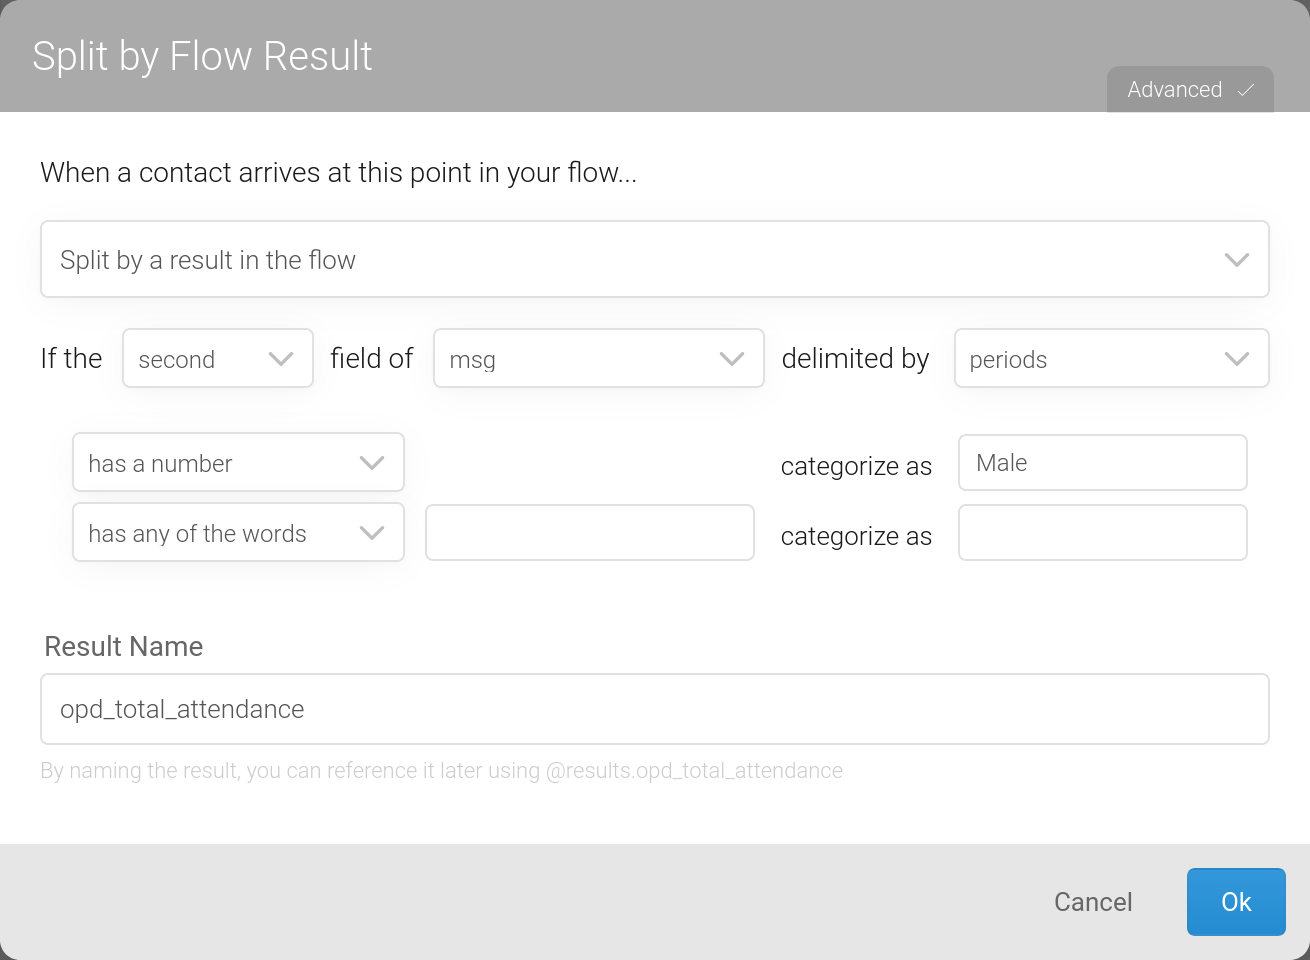
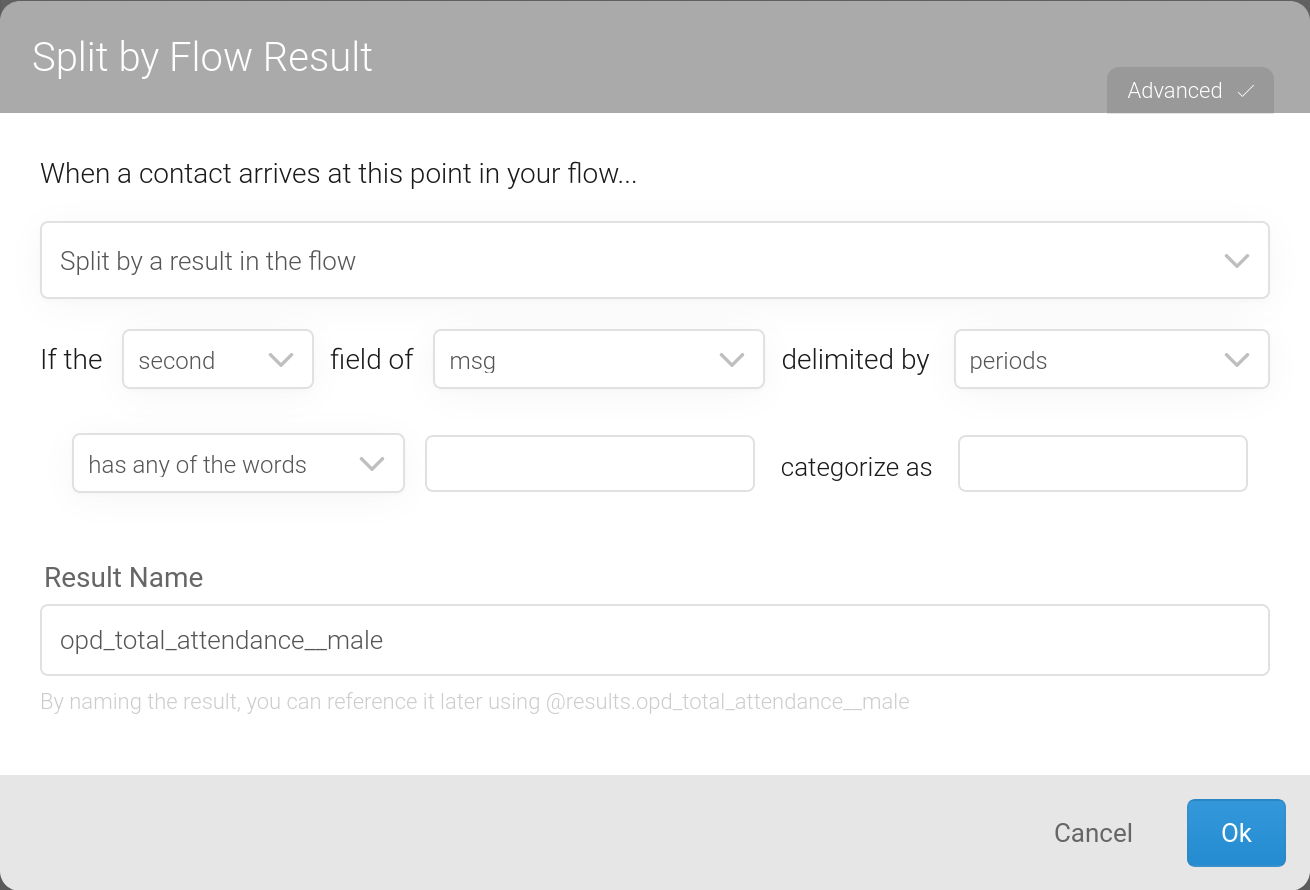
fix(INTEROP-28): expect the category option combo to be appended to t… (#76)
* fix(INTEROP-28): expect the category option combo to be appended to the result name instead of in the category field since RapidPro doesn't allow more than one result with the same name

* style(INTEROP-28): remove commented code

* refactor: fix log message

* fix(INTEROP-28): attempt to read friendly result name before falling back to result key (applicable to polling)

diff --git a/src/test/java/org/hisp/dhis/integration/rapidpro/DataValueSetDataSonnetTestCase.java b/src/test/java/org/hisp/dhis/integration/rapidpro/DataValueSetDataSonnetTestCase.java
@@ -81,12 +81,12 @@ public class DataValueSetDataSonnetTestCase
         dsExpression.setOutputMediaType( "application/x-java-object" );
 
         List<String> dataElementCodes = List.of( "GEN_EXT_FUND", "MAL-POP-TOTAL", "MAL_LLIN_DISTR_PW",
-            "GEN_DOMESTIC FUND", "MAL_LLIN_DISTR_NB", "MAL_PEOPLE_PROT_BY_IRS", "MAL_POP_AT_RISK", "GEN_PREG_EXPECT",
+            "GEN_DOMESTIC FUND", "MAL_LLIN_DISTR_NB", "MAL-PEOPLE-PROT-BY-IRS", "MAL_POP_AT_RISK", "GEN_PREG_EXPECT",
             "GEN_FUND_NEED" );
 
         logCountDownLatch = new CountDownLatch( 1 );
         CamelContext camelContext = new DefaultCamelContext();
-        camelContext.getRegistry().bind( "native", new Library()
+        camelContext.getRegistry().bind( "native", new NativeDataSonnetLibrary()
         {
             @Override
             public String namespace()
@@ -97,22 +97,35 @@ public class DataValueSetDataSonnetTestCase
             @Override
             public Map<String, Val.Func> functions( DataFormatService dataFormats, Header header )
             {
-                Map<String, Val.Func> answer = new HashMap<>();
+                Map<String, Val.Func> answer = super.functions( dataFormats, header );
+                answer.put( "getCatOptComboCode", makeSimpleFunc(
+                    Collections.singletonList( "resultName" ), vals -> {
+                        String resultName = ((Val.Str) vals.get( 0 )).value();
+                        return Materializer.reverse( dataFormats.mandatoryRead(
+                            new DefaultDocument( resultName.substring( resultName.indexOf( "__" ) + 2 ).toUpperCase(),
+                                MediaTypes.APPLICATION_JAVA ) ) );
+                    } ) );
                 answer.put( "logWarning", makeSimpleFunc(
-                    Collections.singletonList( "key" ), vals -> {
+                    Collections.singletonList( "msg" ), vals -> {
                         logCountDownLatch.countDown();
                         return null;
                     } ) );
-                answer.put( "isCategoryOptionCombo", makeSimpleFunc(
-                    Collections.singletonList( "key" ), vals -> {
-                        if ( ((Val.Str) vals.get( 0 )).value().equals( "Male" ))
+                answer.put( "isCatOptCombo", makeSimpleFunc(
+                    Collections.singletonList( "resultName" ), vals -> {
+                        String resultName = ((Val.Str) vals.get( 0 )).value();
+                        if ( resultName.contains( "__" ) && resultName.substring( resultName.indexOf( "__" ) + 2 )
+                            .equals( "mal-0514y" ) )
                         {
                             return Materializer.reverse( dataFormats.mandatoryRead(
                                 new DefaultDocument( true, MediaTypes.APPLICATION_JAVA ) ) );
-                        } else {
+
+                        }
+                        else
+                        {
                             return Materializer.reverse( dataFormats.mandatoryRead(
                                 new DefaultDocument( false, MediaTypes.APPLICATION_JAVA ) ) );
                         }
+
                     } ) );
 
                 return answer;
@@ -147,7 +160,8 @@ public class DataValueSetDataSonnetTestCase
 
     @Test
     public void testMappingOmitsWarningWhenAllDataElementCodesAreKnown()
-        throws IOException
+        throws
+        IOException
     {
         Map<String, Object> payload = OBJECT_MAPPER.readValue( StreamUtils.copyToString(
             Thread.currentThread().getContextClassLoader().getResourceAsStream( "webhook.json" ),
@@ -163,7 +177,8 @@ public class DataValueSetDataSonnetTestCase
 
     @Test
     public void testMapping()
-        throws IOException
+        throws
+        IOException
     {
         exchange.getMessage().setBody( OBJECT_MAPPER.readValue( StreamUtils.copyToString(
             Thread.currentThread().getContextClassLoader().getResourceAsStream( "webhook.json" ),
@@ -197,14 +212,12 @@ public class DataValueSetDataSonnetTestCase
 
     @Test
     public void testMappingGivenValidCategoryOptionComboCode()
-        throws IOException
+        throws
+        IOException
     {
         Map<String, Object> payload = OBJECT_MAPPER.readValue( StreamUtils.copyToString(
             Thread.currentThread().getContextClassLoader().getResourceAsStream( "webhook.json" ),
             Charset.defaultCharset() ), Map.class );
-
-        ((Map<String, Object>) ((Map<String, Object>) payload.get( "results" )).get( "mal_llin_distr_pw" )).put(
-            "category", "Male" );
 
         exchange.getMessage().setBody( payload );
 
@@ -217,11 +230,47 @@ public class DataValueSetDataSonnetTestCase
         assertEquals( "2", dataValues.get( 0 ).get( "value" ) );
 
         assertEquals( "MAL-POP-TOTAL", dataValues.get( 1 ).get( "dataElement" ) );
-        assertNull( dataValues.get( 1 ).get( "categoryOptionCombo" ) );
+        assertEquals( "MAL-0514Y", dataValues.get( 1 ).get( "categoryOptionCombo" ) );
         assertEquals( "10", dataValues.get( 1 ).get( "value" ) );
 
         assertEquals( "MAL_LLIN_DISTR_PW", dataValues.get( 2 ).get( "dataElement" ) );
-        assertEquals( "Male", dataValues.get( 2 ).get( "categoryOptionCombo" ) );
+        assertNull( dataValues.get( 2 ).get( "categoryOptionCombo" ) );
+        assertEquals( "3", dataValues.get( 2 ).get( "value" ) );
+
+        assertEquals( "GEN_DOMESTIC FUND", dataValues.get( 3 ).get( "dataElement" ) );
+        assertNull( dataValues.get( 3 ).get( "categoryOptionCombo" ) );
+        assertEquals( "5", dataValues.get( 3 ).get( "value" ) );
+
+        assertEquals( 0, logCountDownLatch.getCount() );
+    }
+
+    @Test
+    public void testMappingGivenResultName()
+        throws
+        IOException
+    {
+        Map<String, Object> payload = OBJECT_MAPPER.readValue( StreamUtils.copyToString(
+            Thread.currentThread().getContextClassLoader().getResourceAsStream( "webhook.json" ),
+            Charset.defaultCharset() ), Map.class );
+
+        ((Map<String, Object>) ((Map<String, Object>) payload.get( "results" )).get( "mal_llin_distr_pw" )).put(
+            "name", "mal_people_prot_by_irs" );
+
+        exchange.getMessage().setBody( payload );
+
+        Map dataValueSet = new ValueBuilder( dsExpression ).evaluate( exchange, Map.class );
+
+        List<Map<String, Object>> dataValues = (List<Map<String, Object>>) dataValueSet.get( "dataValues" );
+
+        assertEquals( "GEN_EXT_FUND", dataValues.get( 0 ).get( "dataElement" ) );
+        assertNull( dataValues.get( 0 ).get( "categoryOptionCombo" ) );
+        assertEquals( "2", dataValues.get( 0 ).get( "value" ) );
+
+        assertEquals( "MAL-POP-TOTAL", dataValues.get( 1 ).get( "dataElement" ) );
+        assertEquals( "10", dataValues.get( 1 ).get( "value" ) );
+
+        assertEquals( "MAL-PEOPLE-PROT-BY-IRS", dataValues.get( 2 ).get( "dataElement" ) );
+        assertNull( dataValues.get( 2 ).get( "categoryOptionCombo" ) );
         assertEquals( "3", dataValues.get( 2 ).get( "value" ) );
 
         assertEquals( "GEN_DOMESTIC FUND", dataValues.get( 3 ).get( "dataElement" ) );
@@ -233,14 +282,15 @@ public class DataValueSetDataSonnetTestCase
 
     @Test
     public void testMappingGivenInvalidCategoryOptionComboCode()
-        throws IOException
+        throws
+        IOException
     {
         Map<String, Object> payload = OBJECT_MAPPER.readValue( StreamUtils.copyToString(
             Thread.currentThread().getContextClassLoader().getResourceAsStream( "webhook.json" ),
             Charset.defaultCharset() ), Map.class );
 
-        ((Map<String, Object>) ((Map<String, Object>) payload.get( "results" )).get( "mal_llin_distr_pw" )).put(
-            "category", "M" );
+        ((Map<String, Object>) payload.get( "results" )).remove( "mal_llin_distr_pw" );
+        ((Map<String, Object>) payload.get( "results" )).put( "mal_llin_distr_pw__male", Map.of( "value", "3" ) );
 
         exchange.getMessage().setBody( payload );
 
@@ -253,16 +303,15 @@ public class DataValueSetDataSonnetTestCase
         assertEquals( "2", dataValues.get( 0 ).get( "value" ) );
 
         assertEquals( "MAL-POP-TOTAL", dataValues.get( 1 ).get( "dataElement" ) );
-        assertNull( dataValues.get( 1 ).get( "categoryOptionCombo" ) );
         assertEquals( "10", dataValues.get( 1 ).get( "value" ) );
 
-        assertEquals( "MAL_LLIN_DISTR_PW", dataValues.get( 2 ).get( "dataElement" ) );
+        assertEquals( "GEN_DOMESTIC FUND", dataValues.get( 2 ).get( "dataElement" ) );
         assertNull( dataValues.get( 2 ).get( "categoryOptionCombo" ) );
-        assertEquals( "3", dataValues.get( 2 ).get( "value" ) );
+        assertEquals( "5", dataValues.get( 2 ).get( "value" ) );
 
-        assertEquals( "GEN_DOMESTIC FUND", dataValues.get( 3 ).get( "dataElement" ) );
+        assertEquals( "MAL_LLIN_DISTR_PW", dataValues.get( 3 ).get( "dataElement" ) );
         assertNull( dataValues.get( 3 ).get( "categoryOptionCombo" ) );
-        assertEquals( "5", dataValues.get( 3 ).get( "value" ) );
+        assertEquals( "3", dataValues.get( 3 ).get( "value" ) );
 
         assertEquals( 0, logCountDownLatch.getCount() );
     }

diff --git a/src/main/java/org/hisp/dhis/integration/rapidpro/NativeDataSonnetLibrary.java b/src/main/java/org/hisp/dhis/integration/rapidpro/NativeDataSonnetLibrary.java
@@ -69,14 +69,36 @@ public class NativeDataSonnetLibrary extends Library
     public Map<String, Val.Func> functions( DataFormatService dataFormats, Header header )
     {
         Map<String, Val.Func> answer = new HashMap<>();
-        answer.put( "logWarning", logWarningFn() );
-        answer.put( "isCategoryOptionCombo", isCategoryOptionComboFn( dataFormats ) );
-        answer.put( "formatResource", formatResource( dataFormats ) );
+        answer.put( "logWarning", logWarning() );
+        answer.put( "isCatOptCombo", isCatOptComboFn( dataFormats ) );
+        answer.put( "getCatOptComboCode", getCatOptComboCodeFn( dataFormats ) );
+        answer.put( "truncateCatOptComboSuffix", truncateCatOptComboSuffixFn( dataFormats ) );
+        answer.put( "formatResource", formatResourceFn( dataFormats ) );
 
         return answer;
     }
 
-    protected Val.Func formatResource( DataFormatService dataFormats )
+    protected Val.Func truncateCatOptComboSuffixFn( DataFormatService dataFormats )
+    {
+        return makeSimpleFunc(
+            Collections.singletonList( "resultName" ), vals -> {
+                String resultName = ((Val.Str) vals.get( 0 )).value();
+                String dataElementCode;
+                if ( resultName.contains( "__" ) )
+                {
+                    dataElementCode = resultName.substring( 0, resultName.indexOf( "__" ) );
+                }
+                else
+                {
+                    dataElementCode = resultName;
+                }
+                return Materializer.reverse( dataFormats.mandatoryRead(
+                    new DefaultDocument<>( dataElementCode, MediaTypes.APPLICATION_JAVA ) ) );
+
+            } );
+    }
+
+    protected Val.Func formatResourceFn( DataFormatService dataFormats )
     {
         return makeSimpleFunc(
             List.of( "key", "dataSetName" ), vals -> {
@@ -89,7 +111,7 @@ public class NativeDataSonnetLibrary extends Library
             } );
     }
 
-    protected Val.Func logWarningFn()
+    protected Val.Func logWarning()
     {
         return makeSimpleFunc(
             Collections.singletonList( "msg" ), vals -> {
@@ -98,19 +120,54 @@ public class NativeDataSonnetLibrary extends Library
             } );
     }
 
-    protected Val.Func isCategoryOptionComboFn( DataFormatService dataFormats )
+    protected Val.Func getCatOptComboCodeFn( DataFormatService dataFormats )
     {
         return makeSimpleFunc(
-            Collections.singletonList( "categoryComboOptionCode" ), vals -> {
-                Iterable<CategoryOptionCombo> categoryOptionCombos = dhis2Client.get( "categoryOptionCombos" )
-                    .withFilter( "code:eq:" + ((Val.Str) vals.get( 0 )).value() ).withoutPaging()
-                    .transfer().returnAs( CategoryOptionCombo.class, "categoryOptionCombos" );
-                boolean categoryOptionComboExists = categoryOptionCombos.iterator().hasNext();
-                if ( !categoryOptionComboExists )
+            Collections.singletonList( "resultName" ), vals -> {
+                String resultName = ((Val.Str) vals.get( 0 )).value();
+                return Materializer.reverse( dataFormats.mandatoryRead(
+                    new DefaultDocument<>( fetchDhis2CatOptComboCode( resultName ),
+                        MediaTypes.APPLICATION_JAVA ) ) );
+            } );
+    }
+
+    protected String fetchDhis2CatOptComboCode( String resultName )
+    {
+        String catOptComboCode = extractCatOptComboCode( resultName );
+        Iterable<CategoryOptionCombo> categoryOptionCombos = dhis2Client.get( "categoryOptionCombos" )
+            .withFilter( "code:$ilike:" + catOptComboCode ).withFields( "code" ).withoutPaging()
+            .transfer().returnAs( CategoryOptionCombo.class, "categoryOptionCombos" );
+        String dhis2CatOptComboCode = null;
+        for ( CategoryOptionCombo categoryOptionCombo : categoryOptionCombos )
+        {
+            if ( categoryOptionCombo.getCode().get().toLowerCase().equals( catOptComboCode ) )
+            {
+                dhis2CatOptComboCode = categoryOptionCombo.getCode().get();
+            }
+        }
+        return dhis2CatOptComboCode;
+    }
+
+    protected String extractCatOptComboCode( String resultName )
+    {
+        return resultName.substring( resultName.indexOf( "__" ) + 2 );
+    }
+
+    protected Val.Func isCatOptComboFn( DataFormatService dataFormats )
+    {
+        return makeSimpleFunc(
+            Collections.singletonList( "resultName" ), vals -> {
+                String resultName = ((Val.Str) vals.get( 0 )).value();
+                boolean categoryOptionComboExists = false;
+                if ( resultName.contains( "__" ) )
                 {
-                    LOGGER.warn(
-                        "Ignoring category option combination because of unknown category option combination code '" + ((Val.Str) vals.get(
-                            0 )).value() + "'. Hint: ensure that the RapidPro category matches the corresponding DHIS2 category option combination code" );
+                    String catOptOptionComboCode = fetchDhis2CatOptComboCode( resultName );
+                    if ( catOptOptionComboCode == null )
+                    {
+                        LOGGER.warn(
+                            "Ignoring category option combination because of unknown category option combination code '" + extractCatOptComboCode(
+                                resultName ) + "'. Hint: ensure the RapidPro result name suffix starts with '__'  and that the trailing code matches the corresponding DHIS2 category option combination code" );
+                    }
                 }
                 return Materializer.reverse( dataFormats.mandatoryRead(
                     new DefaultDocument<>( categoryOptionComboExists, MediaTypes.APPLICATION_JAVA ) ) );

diff --git a/README.md b/README.md
@@ -205,7 +205,7 @@ Each ingestion mode comes with its own set of trade-offs. For instance, webhook 
 
     <img src="static/images/opd-attendance.png" width="50%" height="50%"/>
 
-   The result name must match the code of the corresponding data element in DHIS2. Upper case letters in the data element code can be entered as lower case letters in the result name field while whitespaces and hyphens can be entered as underscores. A category option combination code for the value is specified in the `categorize as` text field:
+   The result name must match the code of the corresponding data element in DHIS2. Upper case letters in the data element code can be entered as lower case letters in the result name field while whitespaces and hyphens can be entered as underscores If a category option combination is required, suffix the result name with two underscores and append the category option combination code to the suffix:
 
     <img src="static/images/opd-attendance-category.png" width="50%" height="50%"/>
 
@@ -258,7 +258,7 @@ Each ingestion mode comes with its own set of trade-offs. For instance, webhook 
 
     <img src="static/images/opd-attendance.png" width="50%" height="50%"/>
 
-    The result name must match the code of the corresponding data element in DHIS2. Upper case letters in the data element code can be entered as lower case letters in the result name field while whitespaces and hyphens can be entered as underscores. A category option combination code for the value is specified in the `categorize as` text field:
+    The result name must match the code of the corresponding data element in DHIS2. Upper case letters in the data element code can be entered as lower case letters in the result name field while whitespaces and hyphens can be entered as underscores. If a category option combination is required, suffix the result name with two underscores and append the category option combination code to the suffix:
 
     <img src="static/images/opd-attendance-category.png" width="50%" height="50%"/>
 
@@ -268,7 +268,9 @@ Each ingestion mode comes with its own set of trade-offs. For instance, webhook 
 
    The webhook call node must be configured as follows:
    - Select the HTTP method to be `POST`:
+   
      <img src="static/images/post-webhook.png" width="50%" height="50%"/>
+   
    - Set the URL field to the HTTP(S) address that DHIS-to-RapidPro is listening on. The default HTTPS port number is _8443_ (see `server.port` in [Configuration](#configuration)): the path in the URL field is required to end with `/dhis2rapidpro/webhook`:
      ![URL webhook](static/images/url-webhook.png)
    - Append to the URL the `dataSetCode` query parameter which identifies by code the data set that the contact is reporting. You need to look up the data set from the DHIS2 maintenance app and hard-code its code as shown below:
